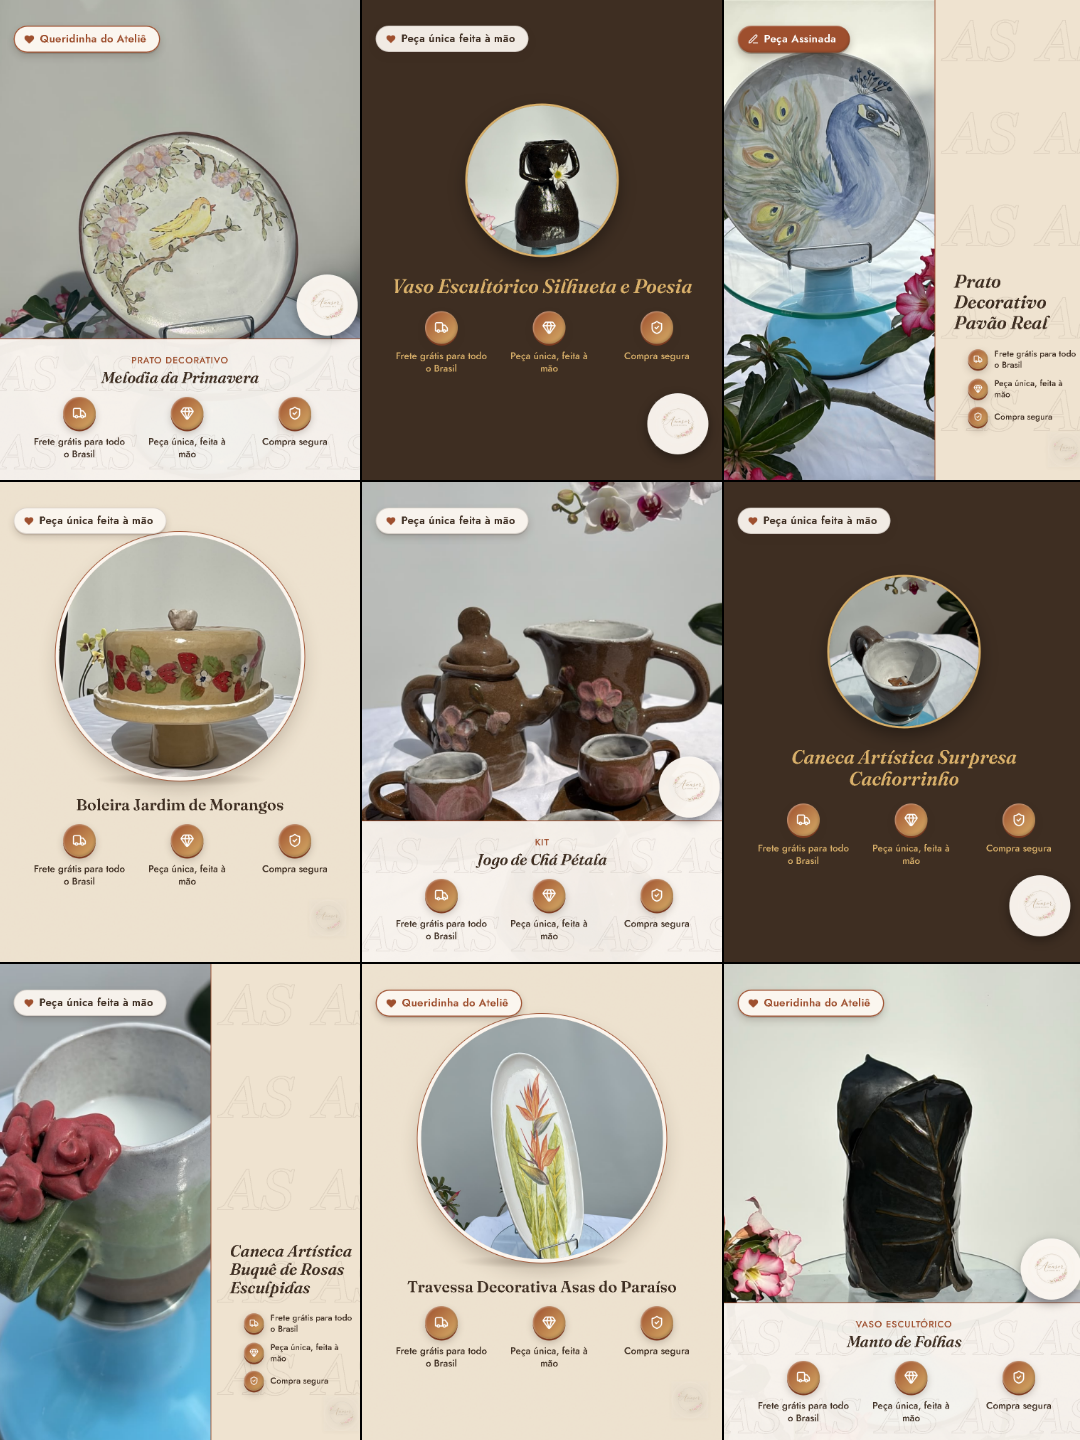
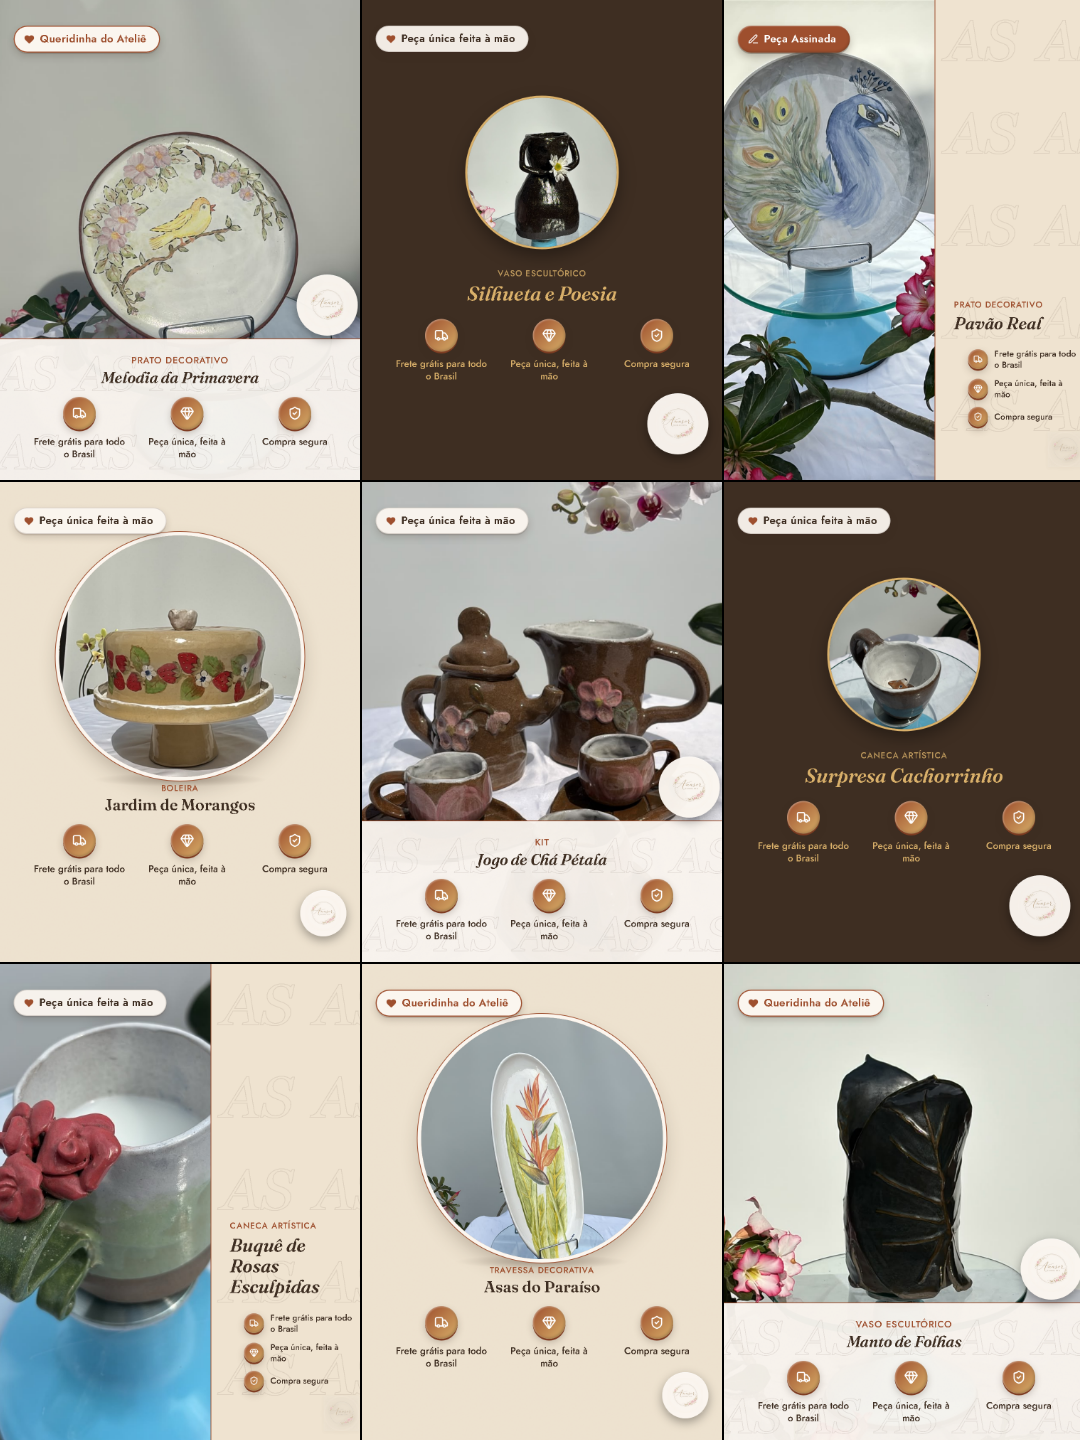
feat(marketing): hierarquia de nome (tipo/poético) nos 4 layouts de capa
Antes só o layout 1 (o do post-01) dividia o nome da peça em "tipo"
(Jost, pequeno) + "nome poético" (Fraunces itálico, grande). Estende o
mesmo dividirNome() pros layouts 2 (editorial), 3 (círculo) e 4 (marrom)
— cada um com a cor/posição do eyebrow ajustada ao próprio layout.
Layout 3 (círculo sobre bege) também ganhou o "chip" da logo: o emblema
claro lia fraco sobre o bege encorpado do fundo, mesmo sem ser foto.

diff --git a/marketing/instagram/gerar-posts.js b/marketing/instagram/gerar-posts.js
@@ -641,12 +641,14 @@ function slideCapaStory(v, foto, nome, recorte, logoUri) {
 // relativo ao <body>, que é quem tem position:relative (cssComum) — a
 // foto só por acaso preenche esse canto neste layout.
 function slideCapaEditorial(v, foto, nome, recorte, produto, logoUri) {
+  const { tipo, poetico } = dividirNome(nome);
   return baseHtml(v, `
     ${seloHtml(v, produto)}
     <div class="editorial">
       <div class="editorial__foto"><img src="${foto}" alt="" style="object-position:${recorte}"></div>
       <div class="editorial__bloco">
-        <h1 id="titulo" data-max-linhas="3">${escaparHtml(nome)}</h1>
+        ${tipo ? `<p class="editorial__tipo">${escaparHtml(tipo)}</p>` : ''}
+        <h1 id="titulo" data-max-linhas="3">${escaparHtml(poetico)}</h1>
         ${faixaConfiancaHtml({ coluna: true })}
         ${marcaDaguaHtml(logoUri, 'marca-dagua--editorial')}
       </div>
@@ -670,6 +672,11 @@ function slideCapaEditorial(v, foto, nome, recorte, produto, logoUri) {
       background-size: 260px;
       border-left: 2px solid ${v.destaque};
     }
+    .editorial__tipo {
+      font-family: 'Jost', sans-serif; font-weight: 500; font-size: 24px;
+      letter-spacing: 0.05em; text-transform: uppercase; color: ${v.destaque};
+      margin-bottom: 8px;
+    }
     .editorial__bloco h1 {
       font-family: 'Fraunces', serif; font-style: italic; font-weight: 600;
       font-size: 54px; line-height: 1.12; letter-spacing: -0.005em;
@@ -687,6 +694,7 @@ function slideCapaEditorial(v, foto, nome, recorte, produto, logoUri) {
 // (.circulo-pedestal) é a referência ao pedestal pedida — um gradiente,
 // não um desenho 3D, que ficaria falso/genérico perto de fotos reais.
 function slideCapaCirculo(v, foto, nome, recorte, produto, logoUri) {
+  const { tipo, poetico } = dividirNome(nome);
   return baseHtml(v, `
     ${seloHtml(v, produto)}
     <div class="circulo-cena">
@@ -694,10 +702,11 @@ function slideCapaCirculo(v, foto, nome, recorte, produto, logoUri) {
       <div class="circulo-foto"><img src="${foto}" alt="" style="object-position:${recorte}"></div>
     </div>
     <div class="circulo-rodape">
-      <h1 id="titulo">${escaparHtml(nome)}</h1>
+      ${tipo ? `<p class="circulo-rodape__tipo">${escaparHtml(tipo)}</p>` : ''}
+      <h1 id="titulo">${escaparHtml(poetico)}</h1>
       ${faixaConfiancaHtml()}
     </div>
-    ${marcaDaguaHtml(logoUri, 'marca-dagua--circulo')}`, `
+    ${marcaDaguaHtml(logoUri, 'marca-dagua--circulo', true)}`, `
     body { background-color: ${v.fundoAlt}; }
     .circulo-cena { position: absolute; top: 150px; left: 50%; transform: translateX(-50%); width: 680px; height: 680px; }
     .circulo-pedestal {
@@ -711,12 +720,22 @@ function slideCapaCirculo(v, foto, nome, recorte, produto, logoUri) {
     }
     .circulo-foto img { width: 100%; height: 100%; object-fit: cover; }
     .circulo-rodape { position: absolute; left: 0; right: 0; bottom: 210px; text-align: center; padding: 0 72px; }
+    .circulo-rodape__tipo {
+      font-family: 'Jost', sans-serif; font-weight: 500; font-size: 24px;
+      letter-spacing: 0.05em; text-transform: uppercase; color: ${v.destaque};
+      margin-bottom: 6px;
+    }
     .circulo-rodape h1 {
       font-family: 'Fraunces', serif; font-weight: 600; font-size: 58px; line-height: 1.08;
       max-height: calc(58px * 1.08 * 2 + 4px);
       margin-bottom: 30px;
     }
-    .marca-dagua--circulo { width: 104px; }
+    /* v4: logo sobre --cor-fundo-alt também ganhou chip — o emblema (em
+       traço claro/dourado) lia fraco sobre o bege encorpado deste
+       layout, mesmo sem ser uma foto. Largura E altura juntas (não só a
+       largura) porque aqui a classe cai no WRAPPER do chip (comChip),
+       não na img — ver marcaDaguaHtml(). */
+    .marca-dagua--circulo { width: 130px; height: 130px; padding: 16px; }
     `);
 }
 
@@ -726,11 +745,13 @@ function slideCapaCirculo(v, foto, nome, recorte, produto, logoUri) {
 // medalhão circular pequeno, contido — pra não virar só uma citação sem
 // produto; o foco visual é a tipografia, não a foto.
 function slideCapaMarrom(v, foto, nome, recorte, produto, logoUri) {
+  const { tipo, poetico } = dividirNome(nome);
   return baseHtml(v, `
     ${seloHtml(v, produto)}
     <div class="marrom-cena">
       <div class="marrom-foto"><img src="${foto}" alt="" style="object-position:${recorte}"></div>
-      <h1 id="titulo">${escaparHtml(nome)}</h1>
+      ${tipo ? `<p class="marrom-cena__tipo">${escaparHtml(tipo)}</p>` : ''}
+      <h1 id="titulo">${escaparHtml(poetico)}</h1>
       ${faixaConfiancaHtml({ dourada: true })}
     </div>
     ${marcaDaguaHtml(logoUri, '', true)}`, `
@@ -748,6 +769,11 @@ function slideCapaMarrom(v, foto, nome, recorte, produto, logoUri) {
       box-shadow: 0 0 0 6px ${DOURADO}, 0 20px 50px rgba(0, 0, 0, 0.4);
     }
     .marrom-foto img { width: 100%; height: 100%; object-fit: cover; }
+    .marrom-cena__tipo {
+      font-family: 'Jost', sans-serif; font-weight: 500; font-size: 24px;
+      letter-spacing: 0.05em; text-transform: uppercase; color: ${DOURADO}; opacity: 0.8;
+      margin-bottom: 8px;
+    }
     .marrom-cena h1 {
       font-family: 'Fraunces', serif; font-weight: 600; font-style: italic;
       font-size: 66px; line-height: 1.12; color: ${DOURADO};
